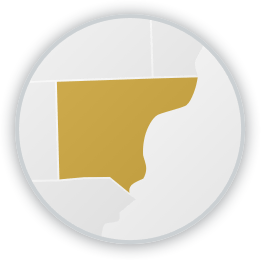
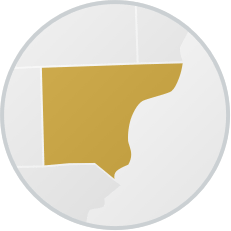
improves home header map images

diff --git a/app/pages/Home/components/HomeHeader.jsx b/app/pages/Home/components/HomeHeader.jsx
@@ -13,7 +13,7 @@ export default class Home extends Component {
           <div className="home-header-intro">
             <h1 className="home-header-headline font-xxl">Get to know  Wayne County</h1>
             <p className="home-header-intro-text font-lg">
-              View our challenges, embrace our strengths, and engage with our opportunities.
+              View our challenges, embrace our strengths, and engage with our opportunities.&thinsp;
               <Link className="home-header-intro-link font-sm u-uppercase" to="/about">
                 learn more<span className="pt-icon pt-icon-chevron-right" />
                 <span className="u-visually-hidden"> about data in Wayne County, Michigan</span>
@@ -33,9 +33,18 @@ export default class Home extends Component {
           </div>
 
           {/* map */}
-          {/* TODO: add other map image */}
           <div className="home-header-map">
-            <img src="/images/wayne-county-map/wayne-map.svg" alt=""/>
+            {/* Wayne county map */}
+            {/* TODO: replace with d3plus map */}
+            <img className="home-header-wayne-map"
+              src="/images/wayne-county-map/wayne-map.png"
+              srcSet="/images/wayne-county-map/wayne-map.png 1x, /images/wayne-county-map/wayne-map@2x.png 2x"
+              alt=""/>
+            {/* zoomed out bg map */}
+            <img className="home-header-michigan-map"
+              src="/images/wayne-county-map/michigan-map.png"
+              srcSet="/images/wayne-county-map/michigan-map.svg 1x"
+              alt=""/>
           </div>
         </div>
 

diff --git a/app/pages/Home/components/HomeHeader.css b/app/pages/Home/components/HomeHeader.css
@@ -1,14 +1,18 @@
 @import "../../../css/mixins.css";
 
+/* home header layout */
 .home-header-inner {
+  /* positioning */
   @add-mixin centered-container;
+  /* sizing */
   padding-top: var(--home-nav-height);
   padding-bottom: var(--home-nav-height);
   min-height: 75vh;
+  /* layout */
   display: flex;
   align-items: center;
   justify-content: space-between;
-  z-index: 1;
+  z-index: 1; /* allow bg to shuffle behind */
 
   /* limit intro text width */
   & .home-header-intro {
@@ -19,24 +23,45 @@
   & .home-header-map {
     margin-left: auto;
     margin-right: auto;
+    padding-left: var(--gutter-xl);
+
+    & .home-header-wayne-map {
+      border-radius: 50%;
+      box-shadow: 0 0.04em 0.5em color(var(--black) a(0.5));
+    }
+
+    /* position michigan bg map */
+    & .home-header-michigan-map {
+      position: absolute;
+      top: -3.5rem;
+      left: -1.375rem;
+      z-index: -1;
+    }
+
+    @add-mixin max-xs {
+      display: none;
+    }
   }
 }
+
 
 /* intro block typography */
 .home-header-intro {
   text-shadow: 0 0.04em 0.5em color(var(--black) a(0.5));
 
-
+  /* space out intro text */
   & .home-header-intro-text {
     margin-top: 1em;
     margin-bottom: 1.5em;
   }
 
-  /* space out from paragraph text */
+  /* horizontally space out link from paragraph text */
   & .home-header-intro-link {
     margin-left: 0.75em;
+    white-space: nowrap;
   }
 }
+
 
 /* hero image */
 .home-header-background {
@@ -67,6 +92,8 @@
   }
 }
 
+
+/* search */
 .home-search {
   max-width: 32rem; /* 640px */
 
